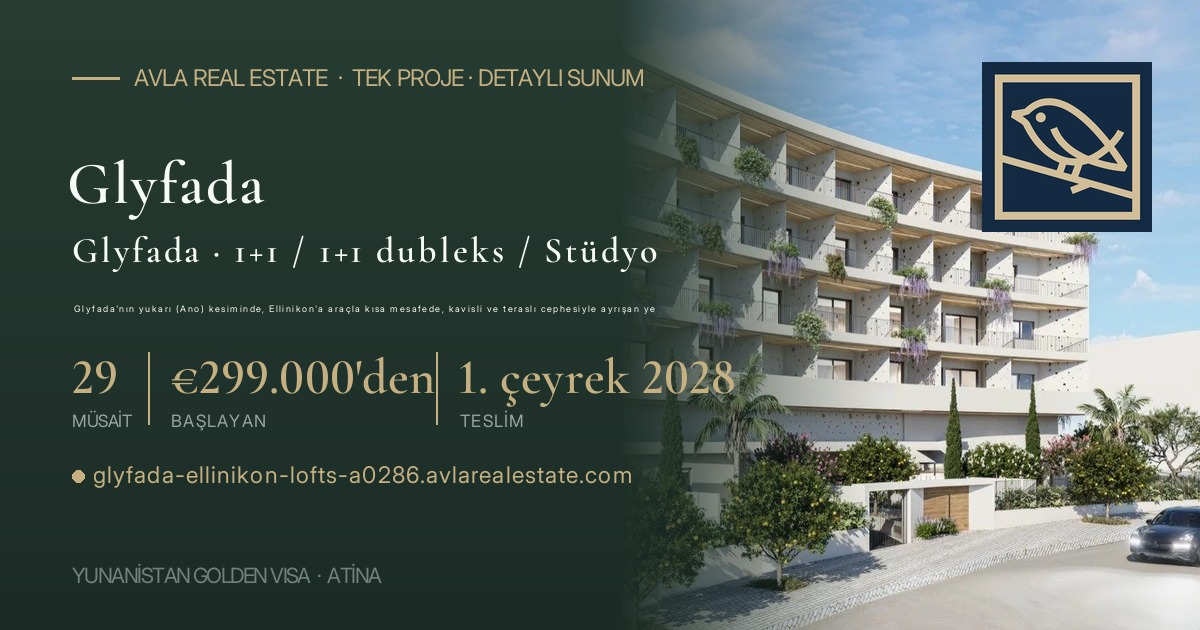
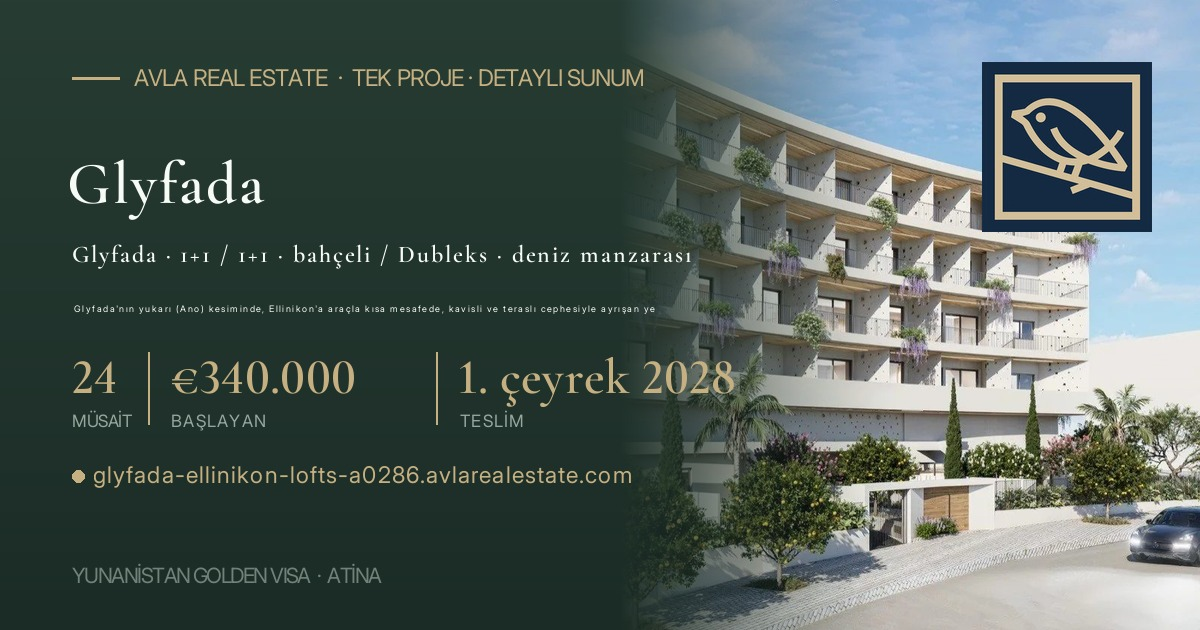
Tekil sayfalar yayında: A0286 — alan adı + master seçki bağlantısı (Sami 10.10)

Changed region(s): [[0.0617, 0.3619, 0.5858, 0.4222], [0.1542, 0.573, 0.37, 0.6333], [0.0617, 0.573, 0.1233, 0.6333]]

diff --git a/mulk/a0286/index.html b/mulk/a0286/index.html
@@ -1079,8 +1079,8 @@ j=d.createElement(s),dl=l!='dataLayer'?'&l='+l:'';j.async=true;j.src=
     <h1>Glyfada · Ellinikon yakınında 1+1 ve çatı loft dubleksler</h1>
     <div class="sub">Glyfada'nın yukarı (Ano) kesiminde, Ellinikon'a araçla kısa mesafede, kavisli ve teraslı cephesiyle ayrışan yeni bir yapı.</div>
     <div class="hstats">
-      <div><div class="n">29</div><div class="l">Müsait daire</div></div>
-      <div><div class="n">€299.000'den</div><div class="l">Fiyat aralığı</div></div>
+      <div><div class="n">24</div><div class="l">Müsait daire</div></div>
+      <div><div class="n">€340.000 – €520.000</div><div class="l">Fiyat aralığı</div></div>
       <div><div class="n">1. çeyrek 2028</div><div class="l">Teslim</div></div>
       <div><div class="n">Yok</div><div class="l">Kira garantisi</div></div>
     </div>
@@ -1091,7 +1091,7 @@ j=d.createElement(s),dl=l!='dataLayer'?'&l='+l:'';j.async=true;j.src=
     <a href="#giris">Seçki Notu</a>
     <a href="#gv">Golden Visa</a>
     <a href="#harita">Harita</a>
-    
+    <a href="#karsilastirma">Karşılaştırma</a>
     <a href="#a0286"><i style="background:#8a6a4a"></i>Glyfada &middot; proje</a>
     <a href="#guvence">Güvence</a>
     <a href="#ozet">Özet</a>
@@ -1104,7 +1104,7 @@ j=d.createElement(s),dl=l!='dataLayer'?'&l='+l:'';j.async=true;j.src=
   <div class="eyebrow">Seçki Notu</div>
   <h2>Glyfada · Ellinikon yakınında 1+1 ve çatı loft dubleksler — tek sayfada</h2>
   <div class="card">
-    <p>Bu sayfa, Glyfada · Atina Rivierası bölgesindeki <b>Glyfada · Ellinikon yakınında 1+1 ve çatı loft dubleksler</b> için hazırlanmış Avla Özel Seçki'dir. Projeyle ilgili her şey tek sayfada: güncel fiyatlar ve <b>29 müsait dairenin</b> listesi, daire ve kat planları, bölge raporu ve proje raporu.</p>
+    <p>Bu sayfa, Glyfada · Atina Rivierası bölgesindeki <b>Glyfada · Ellinikon yakınında 1+1 ve çatı loft dubleksler</b> için hazırlanmış Avla Özel Seçki'dir. Projeyle ilgili her şey tek sayfada: güncel fiyatlar ve <b>24 müsait dairenin</b> listesi, daire ve kat planları, bölge raporu ve proje raporu.</p>
     <p><b>Sayfanın yapısı:</b> Önce Golden Visa çerçevesi ve haritada semt; ardından daire tiplerini yan yana koyan karşılaştırma ve proje bölümü — künye, görseller, fiyat tablosu ve raporlar. Her bölümde <b>kendi çekincelerimiz</b> de yazılı. İlan sayfası, bölge raporu ve yatırım fizibilitesi bağlantıları proje kartının altındadır.</p>
     <div class="uyari"><b>Müsaitlik ve fiyat:</b> Rakamlar geliştiricilerden gelen en güncel listelere dayanır (envanter teyidi 29 Eylül 2026). Müsaitlik hızla değişir; bağlayıcı karardan önce ilgili dairenin durumu yazılı teyit edilir.</div>
     <p style="margin-top:18px"><a class="b1" style="padding:11px 24px;font-size:13px" href="https://wa.me/905322822657?text=Merhaba%2C%20Glyfada%20%C2%B7%20Ellinikon%20yak%C4%B1n%C4%B1nda%201%2B1%20ve%20%C3%A7at%C4%B1%20loft%20dubleksler%20se%C3%A7kisini%20inceledim." target="_blank" rel="noopener">Bize WhatsApp'tan yazın</a> <a class="b2" style="padding:11px 24px;font-size:13px;color:var(--navy);border-color:var(--cizgi)" href="tel:+905322822657">+90 532 282 26 57</a></p>
@@ -1145,31 +1145,44 @@ j=d.createElement(s),dl=l!='dataLayer'?'&l='+l:'';j.async=true;j.src=
   </div>
 </section>
 
-
+<section id="karsilastirma">
+  <div class="eyebrow">Karşılaştırma</div>
+  <h2>Daire tipleri — tek tabloda</h2>
+  <div class="tbl"><table><thead><tr><th>Daire</th><th>Tip</th><th>İç m²</th><th>Balkon / dış m²</th><th>Toplam m²</th><th>Fiyat</th><th>€ / iç m²</th><th>€ / toplam m²</th><th>Teslim</th></tr></thead><tbody>
+<tr><td><b><a href="#a0286" style="color:inherit">B.5</a></b></td><td>1+1</td><td>35,17</td><td>6,05</td><td>41,22</td><td class="f">€340.000</td><td>€9.667</td><td>€8.248</td><td>1. çeyrek 2028</td></tr>
+<tr><td><b><a href="#a0286" style="color:inherit">A.2</a></b></td><td>1+1</td><td>39,55</td><td>8,65</td><td>48,20</td><td class="f">€375.000</td><td>€9.482</td><td>€7.780</td><td>1. çeyrek 2028</td></tr>
+<tr><td><b><a href="#a0286" style="color:inherit">A.4</a></b></td><td>Stüdyo</td><td>35,17</td><td>5,35</td><td>40,52</td><td class="f">€360.000</td><td>€10.236</td><td>€8.885</td><td>1. çeyrek 2028</td></tr>
+<tr><td><b><a href="#a0286" style="color:inherit">I.2</a></b></td><td>1+1 · bahçeli</td><td>37,00</td><td>34,39</td><td>71,39</td><td class="f">€370.000</td><td>€10.000</td><td>€5.183</td><td>1. çeyrek 2028</td></tr>
+<tr><td><b><a href="#a0286" style="color:inherit">I.3</a></b></td><td>1+1 · bahçeli</td><td>37,75</td><td>54,37</td><td>92,12</td><td class="f">€380.000</td><td>€10.066</td><td>€4.125</td><td>1. çeyrek 2028</td></tr>
+<tr><td><b><a href="#a0286" style="color:inherit">CS.1</a></b></td><td>Dubleks · deniz manzarası</td><td>41,72</td><td>17,32</td><td>59,04</td><td class="f">€410.000</td><td>€9.827</td><td>€6.944</td><td>1. çeyrek 2028</td></tr>
+<tr><td><b><a href="#a0286" style="color:inherit">CS.9</a></b></td><td>Dubleks · deniz manzarası</td><td>52,82</td><td>9,55</td><td>62,37</td><td class="f">€520.000</td><td>€9.845</td><td>€8.337</td><td>1. çeyrek 2028</td></tr>
+  </tbody></table></div>
+  <div class="tblnot">Her daire tipinden en uygun fiyatlı ve en geniş müsait daire. Birim fiyatlar liste fiyatı üzerinden; bağlayıcı fiyat yazılı teyitle sabitlenir. Tablonun tamamı proje bölümündeki “Fiyatlar ve müsait daireler” başlığı altındadır.</div>
+</section>
 
 <section id="a0286">
   <div class="eyebrow">Proje 1 · Glyfada · Atina Rivierası</div>
   <h2><span class="pno" style="color:#8a6a4a">1</span>Glyfada · Ellinikon yakınında 1+1 ve çatı loft dubleksler</h2>
   <div class="card">
-    <p>Glyfada'nın yukarı (Ano) kesiminde, Ellinikon'a araçla kısa mesafede, kavisli ve teraslı cephesiyle ayrışan yeni bir yapı. 31 dairenin 29'u müsait: kompakt 1+1'ler, zemin kat daireleri ve çatıda iki seviyeli loft dubleksler; giriş fiyatı <b>€299.000</b>'den.</p>
-    <p>Açık olalım: geliştirici daire bazında fiyat yayınlamıyor; güncel liste yazılı teklifle verilir. Her daireye otopark yeri ve depo geliştirici tarafından belirtiliyor; teslim tarihi (1. çeyrek 2028) henüz yazılı teyit edilmedi.</p>
+    <p>Glyfada'nın yukarı (Ano) kesiminde, Ellinikon'a araçla kısa mesafede, kavisli ve teraslı cephesiyle ayrışan yeni bir yapı. 31 dairenin 24'ü müsait: bahçeli zemin kat daireleri, kompakt 1+1'ler ve çatıda iki seviyeli, deniz manzaralı dubleksler; fiyatlar <b>€340.000 – €520.000</b>.</p>
+    <p><b>Durum:</b> Fiyat ve müsaitlik geliştiricinin 23 Eylül 2026 tarihli listesinden. Ek otopark yeri €30.000, depo €10.000. Teslim tarihi (1. çeyrek 2028) henüz yazılı teyit edilmedi.</p>
     <p class="kucuk" style="margin-top:14px;padding-top:12px;border-top:1px solid var(--cizgi)"><a style="color:var(--navy);font-weight:600;text-decoration:underline;text-underline-offset:3px;text-decoration-color:var(--gold)" target="_blank" rel="noopener" href="https://www.avlarealestate.com/properties/ano-glyfada-new-build-one-bedroom-apartments-loft-maisonettes-near-ellinikon">İlan sayfası</a> &nbsp;·&nbsp; <a style="color:var(--navy);font-weight:600;text-decoration:underline;text-underline-offset:3px;text-decoration-color:var(--gold)" target="_blank" rel="noopener" href="https://www.avlarealestate.com/en/post/athens-riviera-golden-visa-region-report">Bölge raporu</a></p>
   </div>
   <div class="tkos"><div class="tb">Künye</div>
     <dl>
-      <dt>Müsaitlik</dt><dd><b>29 daire</b> müsait (31 daire) · 2 satıldı</dd>
-      <dt>Alan</dt><dd>33 – 62 m² (üst katlar) · 71 – 127 m² (zemin kat)</dd>
-      <dt>Fiyat</dt><dd><b>€299.000'den</b></dd>
+      <dt>Müsaitlik</dt><dd><b>24 daire</b> müsait (31 daire) · 1 rezerve · 6 satıldı</dd>
+      <dt>Alan</dt><dd>35 – 53 m² net · zemin kat bahçeli (34 – 90 m² bahçe) · çatı dubleksleri 41 – 53 m², deniz manzaralı</dd>
+      <dt>Fiyat</dt><dd><b>€340.000 – €520.000</b> · ek otopark €30.000, depo €10.000</dd>
       <dt>Kira garantisi</dt><dd><span class='yok'>Yok</span></dd>
       <dt>Teslim</dt><dd>1. çeyrek 2028 <span class='uyr'>— geliştirici teyidi bekleniyor</span></dd>
-      <dt>Donanım</dt><dd>Asansör · her daireye otopark ve depo · peyzajlı zemin seviyesi</dd>
+      <dt>Donanım</dt><dd>Asansör · peyzajlı zemin seviyesi · otopark ve depo bazı dairelerde atanmış, diğerlerinde ek bedelle</dd>
       <dt>Hizmet bedeli</dt><dd><span class='var'>%0</span></dd>
       <dt>Golden Visa</dt><dd>Uygunluk ve geçerli eşik <b>daire bazında</b>, bağımsız Yunan avukat incelemesiyle <b>yazılı</b> teyit edilir</dd>
       <dt>Semt</dt><dd>Ano Glyfada — merkezin üstünde, sakin ve yeşil konut dokusu</dd>
       <dt>Ellinikon</dt><dd>Park, marina ve iş bölgesine araçla kısa mesafe</dd>
       <dt>Cephe</dt><dd>Kavisli, teraslı cephe · bitkilendirilmiş balkonlar</dd>
       <dt>Bina</dt><dd>Zemin + 3 kat + çatı loft katı · 31 daire</dd>
-      <dt>Daire karması</dt><dd>4 zemin kat · 15 kompakt 1+1 / stüdyo · 12 çatı dubleksi</dd>
+      <dt>Daire karması</dt><dd>4 bahçeli zemin kat · 15 kompakt 1+1 / stüdyo · 12 deniz manzaralı çatı dubleksi</dd>
       <dt>Havalimanı</dt><dd>Araçla ~25 dakika</dd>
     </dl>
   </div>
@@ -1184,47 +1197,44 @@ j=d.createElement(s),dl=l!='dataLayer'?'&l='+l:'';j.async=true;j.src=
     <img src="img/g-A0286-8.webp" alt="Yatak odası" loading="lazy" onclick="ac('img/g-A0286-8.webp','Yatak odası')">
   </div>
   <div class="tblnot">Görsellerin tamamı bilgisayar ortamında üretilmiş temsilî görsellerdir.</div>
-  <details class="rapor"><summary>Fiyatlar ve müsait daireler — 31 dairenin 29'u</summary><div class="rbody">
-    <div class="pmap" id="pmap-a0286" data-lat="37.870" data-lng="23.752" data-r="250" data-renk="#8a6a4a"></div>
+  <details class="rapor"><summary>Fiyatlar ve müsait daireler — 31 dairenin 24'ü</summary><div class="rbody">
+    <div class="pmap" id="pmap-a0286" data-lat="37.883" data-lng="23.755" data-r="250" data-renk="#8a6a4a"></div>
     <div class="tblnot pmap-not">Konum <b>semt düzeyinde</b> gösterilmektedir — Ano Glyfada · Atina Rivierası.</div>
     <div class="tbl"><table>
       <thead><tr><th>Daire</th><th>Kat</th><th>Tip</th><th>Net m²</th><th>Balkon m²</th><th>Brüt m²</th><th>Fiyat</th><th>€ / m² net</th><th>€ / m² brüt</th><th>Plan</th></tr></thead>
       <tbody>
       
-      <tr><td>B.4</td><td>2</td><td>Stüdyo</td><td>33</td><td>—</td><td>—</td><td class="f"><span class="bel">Teklifle</span></td><td>—</td><td>—</td><td>—</td></tr>
-      <tr><td>A.5</td><td>1</td><td>1+1</td><td>36</td><td>—</td><td>—</td><td class="f"><span class="bel">Teklifle</span></td><td>—</td><td>—</td><td>—</td></tr>
-      <tr><td>B.6</td><td>2</td><td>1+1</td><td>36</td><td>—</td><td>—</td><td class="f"><span class="bel">Teklifle</span></td><td>—</td><td>—</td><td>—</td></tr>
-      <tr><td>A.3</td><td>1</td><td>1+1</td><td>40</td><td>—</td><td>—</td><td class="f"><span class="bel">Teklifle</span></td><td>—</td><td>—</td><td>—</td></tr>
-      <tr><td>A.4</td><td>1</td><td>Stüdyo</td><td>41</td><td>—</td><td>—</td><td class="f"><span class="bel">Teklifle</span></td><td>—</td><td>—</td><td>—</td></tr>
-      <tr><td>B.3</td><td>2</td><td>1+1</td><td>41</td><td>—</td><td>—</td><td class="f"><span class="bel">Teklifle</span></td><td>—</td><td>—</td><td>—</td></tr>
-      <tr class="fgiz"><td>B.5</td><td>2</td><td>1+1</td><td>41</td><td>—</td><td>—</td><td class="f"><span class="bel">Teklifle</span></td><td>—</td><td>—</td><td>—</td></tr>
-      <tr class="fgiz"><td>A.1</td><td>1</td><td>1+1</td><td>42</td><td>—</td><td>—</td><td class="f"><span class="bel">Teklifle</span></td><td>—</td><td>—</td><td>—</td></tr>
-      <tr class="fgiz"><td>A.7</td><td>1</td><td>1+1</td><td>44</td><td>—</td><td>—</td><td class="f"><span class="bel">Teklifle</span></td><td>—</td><td>—</td><td>—</td></tr>
-      <tr class="fgiz"><td>B.1</td><td>2</td><td>1+1</td><td>44</td><td>—</td><td>—</td><td class="f"><span class="bel">Teklifle</span></td><td>—</td><td>—</td><td>—</td></tr>
-      <tr class="fgiz"><td>B.8</td><td>2</td><td>1+1</td><td>46</td><td>—</td><td>—</td><td class="f"><span class="bel">Teklifle</span></td><td>—</td><td>—</td><td>—</td></tr>
-      <tr class="fgiz"><td>A.2</td><td>1</td><td>1+1</td><td>48</td><td>—</td><td>—</td><td class="f"><span class="bel">Teklifle</span></td><td>—</td><td>—</td><td>—</td></tr>
-      <tr class="fgiz"><td>B.7</td><td>2</td><td>1+1</td><td>50</td><td>—</td><td>—</td><td class="f"><span class="bel">Teklifle</span></td><td>—</td><td>—</td><td>—</td></tr>
-      <tr class="fgiz"><td>CS.10</td><td>3 + çatı (dubleks)</td><td>1+1 dubleks</td><td>52</td><td>—</td><td>—</td><td class="f"><span class="bel">Teklifle</span></td><td>—</td><td>—</td><td>—</td></tr>
-      <tr class="fgiz"><td>CS.5</td><td>3 + çatı (dubleks)</td><td>1+1 dubleks</td><td>53</td><td>—</td><td>—</td><td class="f"><span class="bel">Teklifle</span></td><td>—</td><td>—</td><td>—</td></tr>
-      <tr class="fgiz"><td>CS.7</td><td>3 + çatı (dubleks)</td><td>1+1 dubleks</td><td>53</td><td>—</td><td>—</td><td class="f"><span class="bel">Teklifle</span></td><td>—</td><td>—</td><td>—</td></tr>
-      <tr class="fgiz"><td>CS.4</td><td>3 + çatı (dubleks)</td><td>1+1 dubleks</td><td>54</td><td>—</td><td>—</td><td class="f"><span class="bel">Teklifle</span></td><td>—</td><td>—</td><td>—</td></tr>
-      <tr class="fgiz"><td>CS.11</td><td>3 + çatı (dubleks)</td><td>1+1 dubleks</td><td>58</td><td>—</td><td>—</td><td class="f"><span class="bel">Teklifle</span></td><td>—</td><td>—</td><td>—</td></tr>
-      <tr class="fgiz"><td>CS.12</td><td>3 + çatı (dubleks)</td><td>1+1 dubleks</td><td>58</td><td>—</td><td>—</td><td class="f"><span class="bel">Teklifle</span></td><td>—</td><td>—</td><td>—</td></tr>
-      <tr class="fgiz"><td>CS.8</td><td>3 + çatı (dubleks)</td><td>1+1 dubleks</td><td>58</td><td>—</td><td>—</td><td class="f"><span class="bel">Teklifle</span></td><td>—</td><td>—</td><td>—</td></tr>
-      <tr class="fgiz"><td>CS.1</td><td>3 + çatı (dubleks)</td><td>1+1 dubleks</td><td>59</td><td>—</td><td>—</td><td class="f"><span class="bel">Teklifle</span></td><td>—</td><td>—</td><td>—</td></tr>
-      <tr class="fgiz"><td>CS.2</td><td>3 + çatı (dubleks)</td><td>1+1 dubleks</td><td>59</td><td>—</td><td>—</td><td class="f"><span class="bel">Teklifle</span></td><td>—</td><td>—</td><td>—</td></tr>
-      <tr class="fgiz"><td>CS.3</td><td>3 + çatı (dubleks)</td><td>1+1 dubleks</td><td>60</td><td>—</td><td>—</td><td class="f"><span class="bel">Teklifle</span></td><td>—</td><td>—</td><td>—</td></tr>
-      <tr class="fgiz"><td>CS.6</td><td>3 + çatı (dubleks)</td><td>1+1 dubleks</td><td>60</td><td>—</td><td>—</td><td class="f"><span class="bel">Teklifle</span></td><td>—</td><td>—</td><td>—</td></tr>
-      <tr class="fgiz"><td>CS.9</td><td>3 + çatı (dubleks)</td><td>1+1 dubleks</td><td>62</td><td>—</td><td>—</td><td class="f"><span class="bel">Teklifle</span></td><td>—</td><td>—</td><td>—</td></tr>
-      <tr class="fgiz"><td>I.2</td><td>Zemin</td><td>1+1</td><td>71</td><td>—</td><td>—</td><td class="f"><span class="bel">Teklifle</span></td><td>—</td><td>—</td><td>—</td></tr>
-      <tr class="fgiz"><td>I.3</td><td>Zemin</td><td>1+1</td><td>92</td><td>—</td><td>—</td><td class="f"><span class="bel">Teklifle</span></td><td>—</td><td>—</td><td>—</td></tr>
-      <tr class="fgiz"><td>I.1</td><td>Zemin</td><td>1+1</td><td>99</td><td>—</td><td>—</td><td class="f"><span class="bel">Teklifle</span></td><td>—</td><td>—</td><td>—</td></tr>
-      <tr class="fgiz"><td>I.4</td><td>Zemin</td><td>1+1</td><td>127</td><td>—</td><td>—</td><td class="f"><span class="bel">Teklifle</span></td><td>—</td><td>—</td><td>—</td></tr>
+      
+      <tr><td>B.5</td><td>2</td><td>1+1</td><td>35,17</td><td>6,05</td><td>41,22</td><td class="f">€340.000</td><td>€9.667</td><td>€8.248</td><td>—</td></tr>
+      <tr><td>A.1</td><td>1</td><td>1+1</td><td>36,03</td><td>5,57</td><td>41,60</td><td class="f">€350.000</td><td>€9.714</td><td>€8.413</td><td>—</td></tr>
+      <tr><td>A.3</td><td>1</td><td>1+1</td><td>35,18</td><td>5,15</td><td>40,33</td><td class="f">€360.000</td><td>€10.233</td><td>€8.926</td><td>—</td></tr>
+      <tr><td>A.4</td><td>1</td><td>Stüdyo</td><td>35,17</td><td>5,35</td><td>40,52</td><td class="f">€360.000</td><td>€10.236</td><td>€8.885</td><td>—</td></tr>
+      <tr><td>A.7</td><td>1</td><td>1+1</td><td>38,64</td><td>5,38</td><td>44,02</td><td class="f">€370.000</td><td>€9.576</td><td>€8.405</td><td>—</td></tr>
+      <tr><td>B.8</td><td>2</td><td>1+1</td><td>38,64</td><td>7,37</td><td>46,01</td><td class="f">€370.000</td><td>€9.576</td><td>€8.042</td><td>—</td></tr>
+      <tr class="fgiz"><td>I.2</td><td>Zemin</td><td>1+1 · bahçeli</td><td>37,00</td><td>34,39</td><td>71,39</td><td class="f">€370.000</td><td>€10.000</td><td>€5.183</td><td>—</td></tr>
+      <tr class="fgiz"><td>A.2</td><td>1</td><td>1+1</td><td>39,55</td><td>8,65</td><td>48,20</td><td class="f">€375.000</td><td>€9.482</td><td>€7.780</td><td>—</td></tr>
+      <tr class="fgiz"><td>B.1</td><td>2</td><td>1+1</td><td>36,03</td><td>8,45</td><td>44,48</td><td class="f">€375.000</td><td>€10.408</td><td>€8.431</td><td>—</td></tr>
+      <tr class="fgiz"><td>I.3</td><td>Zemin</td><td>1+1 · bahçeli</td><td>37,75</td><td>54,37</td><td>92,12</td><td class="f">€380.000</td><td>€10.066</td><td>€4.125</td><td>—</td></tr>
+      <tr class="fgiz"><td>I.4</td><td>Zemin</td><td>1+1 · bahçeli</td><td>37,22</td><td>90,07</td><td>127,29</td><td class="f">€380.000</td><td>€10.210</td><td>€2.985</td><td>—</td></tr>
+      <tr class="fgiz"><td>I.1</td><td>Zemin</td><td>1+1 · bahçeli</td><td>35,90</td><td>63,11</td><td>99,01</td><td class="f">€380.000</td><td>€10.585</td><td>€3.838</td><td>—</td></tr>
+      <tr class="fgiz"><td>CS.1</td><td>3 + çatı</td><td>Dubleks · deniz manzarası</td><td>41,72</td><td>17,32</td><td>59,04</td><td class="f">€410.000</td><td>€9.827</td><td>€6.944</td><td>—</td></tr>
+      <tr class="fgiz"><td>CS.12</td><td>3 + çatı</td><td>Dubleks · deniz manzarası</td><td>40,80</td><td>17,44</td><td>58,24</td><td class="f">€410.000</td><td>€10.049</td><td>€7.040</td><td>—</td></tr>
+      <tr class="fgiz"><td>CS.10</td><td>3 + çatı</td><td>Dubleks · deniz manzarası</td><td>42,92</td><td>8,72</td><td>51,64</td><td class="f">€420.000</td><td>€9.786</td><td>€8.133</td><td>—</td></tr>
+      <tr class="fgiz"><td>CS.7</td><td>3 + çatı</td><td>Dubleks · deniz manzarası</td><td>43,44</td><td>7,39</td><td>50,83</td><td class="f">€425.000</td><td>€9.784</td><td>€8.361</td><td>—</td></tr>
+      <tr class="fgiz"><td>CS.4</td><td>3 + çatı</td><td>Dubleks · deniz manzarası</td><td>45,41</td><td>8,78</td><td>54,19</td><td class="f">€435.000</td><td>€9.579</td><td>€8.027</td><td>—</td></tr>
+      <tr class="fgiz"><td>CS.5</td><td>3 + çatı</td><td>Dubleks · deniz manzarası</td><td>45,93</td><td>7,11</td><td>53,04</td><td class="f">€450.000</td><td>€9.798</td><td>€8.484</td><td>—</td></tr>
+      <tr class="fgiz"><td>CS.11</td><td>3 + çatı</td><td>Dubleks · deniz manzarası</td><td>46,94</td><td>10,56</td><td>57,50</td><td class="f">€480.000</td><td>€10.226</td><td>€8.348</td><td>—</td></tr>
+      <tr class="fgiz"><td>CS.8</td><td>3 + çatı</td><td>Dubleks · deniz manzarası</td><td>50,38</td><td>8,94</td><td>59,32</td><td class="f">€500.000</td><td>€9.925</td><td>€8.429</td><td>—</td></tr>
+      <tr class="fgiz"><td>CS.2</td><td>3 + çatı</td><td>Dubleks · deniz manzarası</td><td>49,30</td><td>9,36</td><td>58,66</td><td class="f">€500.000</td><td>€10.142</td><td>€8.524</td><td>—</td></tr>
+      <tr class="fgiz"><td>CS.3</td><td>3 + çatı</td><td>Dubleks · deniz manzarası</td><td>49,58</td><td>10,11</td><td>59,69</td><td class="f">€505.000</td><td>€10.186</td><td>€8.460</td><td>—</td></tr>
+      <tr class="fgiz"><td>CS.6</td><td>3 + çatı</td><td>Dubleks · deniz manzarası</td><td>50,88</td><td>9,27</td><td>60,15</td><td class="f">€510.000</td><td>€10.024</td><td>€8.479</td><td>—</td></tr>
+      <tr class="fgiz"><td>CS.9</td><td>3 + çatı</td><td>Dubleks · deniz manzarası</td><td>52,82</td><td>9,55</td><td>62,37</td><td class="f">€520.000</td><td>€9.845</td><td>€8.337</td><td>—</td></tr>
+
 
       </tbody>
     </table></div>
-    <button class="fdaha" onclick="fDaha(this)" data-cok="Kalan 23 daireyi göster  +" data-az="Daha az göster  −">Kalan 23 daireyi göster  +</button>
-    <div class="tblnot">Geliştirici bu projede daire bazında fiyat, balkon ve dış alan verisi yayınlamıyor; Fiyat, Balkon, Brüt ve € / m² sütunları yazılı teklifle doldurulur. Giriş fiyatı <b>€299.000</b>'den. Alanlar geliştiricinin yayımladığı daire alanıdır; net / brüt ayrımı yazılı teyide bağlıdır. Daire planları geliştiriciden istendi, gelince bu tabloya eklenecek. Kat sütunu: Zemin, 1. kat, 2. kat ve 3. kat + çatı katı (dubleksler). Kayıt tarihi <b>10 Ekim 2026</b>.</div>
+    <button class="fdaha" onclick="fDaha(this)" data-cok="Kalan 18 daireyi göster  +" data-az="Daha az göster  −">Kalan 18 daireyi göster  +</button>
+    <div class="tblnot">Kaynak: geliştiricinin fiyat listesi, <b>23 Eylül 2026</b>. Zemin kat dairelerinde Balkon m² sütunu <b>özel bahçe</b> alanıdır; dublekslerde iç alan ve balkon iki katın toplamıdır. Brüt alan = net iç alan + balkon/bahçe. Ek otopark yeri <b>€30.000</b>, depo <b>€10.000</b>; bazı dairelere otopark ve depo listede atanmış, atama teklif aşamasında yazılı teyit edilir. Ayrıca B.7 (2. kat, €395.000) <b>Rezerve (soft rezerve)</b>; 6 daire satıldı. Alanlarda ±%3 tolerans vardır. Daire planları geliştiriciden istendi; Plan sütunu planlar geldiğinde dolar.</div>
     <button class="dkapat" onclick="dKapat(this)" aria-label="Bölümü kapat"><i>−</i> Kapat</button>
   </div></details>
   <details class="rapor"><summary>Bölge raporu · Glyfada</summary><div class="rbody">
@@ -1249,11 +1259,11 @@ j=d.createElement(s),dl=l!='dataLayer'?'&l='+l:'';j.async=true;j.src=
     <p>Zemin + 3 kat + çatı loft katından oluşan, 31 daireli yeni yapı. Ayırt edici özelliği <b>kavisli, teraslı cephesi</b>: öne çıkan balkonlar bitkilendirilmiş, zemin seviyesi peyzajlı, otopark katına ayrı bir giriş yolu ayrılmış. Binada asansör var; her daireye otopark yeri ve depo tahsis edildiği belirtiliyor. Yapı ruhsatı 2026'da alınmıştır. Görsellerdeki bitkilendirme ve malzeme dili proje çizimine göredir.</p>
     <div class="tkos" style="margin-top:14px"><div class="tb">Proje künyesi</div>
     <dl>
-      <dt>Toplam / müsait</dt><dd>31 daire · <b>29 müsait</b> · 2 satıldı (geliştirici listesi, 10 Ekim 2026)</dd>
-      <dt>Zemin kat</dt><dd>4 daire · 71 – 127 m²</dd>
-      <dt>1. ve 2. kat</dt><dd>15 daire · 33 – 50 m² (13 müsait)</dd>
-      <dt>Çatı dubleksleri</dt><dd>12 daire · 52 – 62 m² · iki seviyeli</dd>
-      <dt>Giriş fiyatı</dt><dd>€299.000'den <span class='kucuk'>(daire fiyatları yazılı teklifle)</span></dd>
+      <dt>Toplam / müsait</dt><dd>31 daire · 24 müsait · 1 rezerve · 6 satıldı (geliştirici listesi, 23 Eylül 2026)<b>29 müsait</b> · 2 satıldı (geliştirici listesi, 10 Ekim 2026)</dd>
+      <dt>Zemin kat</dt><dd>4 daire · 35,90 – 37,75 m² iç alan + 34 – 90 m² özel bahçe</dd>
+      <dt>1. ve 2. kat</dt><dd>15 daire · 27 – 40 m² (8 müsait)</dd>
+      <dt>Çatı dubleksleri</dt><dd>12 daire · 41 – 53 m² iç alan · iki seviyeli, deniz manzaralı</dd>
+      <dt>Fiyat</dt><dd>€340.000 – €520.000 <span class='kucuk'>(ek otopark €30.000, depo €10.000)</span></dd>
       <dt>Açıklanan teslim</dt><dd>1. çeyrek 2028 <span class='uyr'>— yazılı teyit alınacak</span></dd>
     </dl>
   </div>
@@ -1265,10 +1275,10 @@ j=d.createElement(s),dl=l!='dataLayer'?'&l='+l:'';j.async=true;j.src=
     </ul>
     <h4>Avla'nın değerlendirmesi</h4>
     <p><b>Güçlü yanlar:</b> Glyfada'nın sakin üst kesiminde, Ellinikon etki alanına araçla kısa mesafede yeni ve kompakt bir 1+1 arzı. Riviera'da bu tip dairelere kira talebi var ve Ellinikon'un yarattığı istihdam bu talebi destekliyor (göstergesel). Kavisli, teraslı cephe binayı çevresindeki yapılardan ayırıyor; çatı dubleksleri iki seviyeli kurgusuyla standart 1+1'lerden farklı bir seçenek sunuyor.</p>
-    <p><b>Dikkat edilecekler:</b> Giriş fiyatı (€299.000'den), Glyfada'daki genel ilan düzeyinin üstünde. Yeni yapı olması, kompakt tip ve Ellinikon yakınlığı bu farkı kısmen açıklıyor; ancak daire bazlı liste ve alan dağılımı (balkon / dış alan) gelmeden € / m² kıyası yapamıyoruz. Teslim tarihi ve inşaat ilerlemesi de şimdilik yalnız geliştirici beyanına dayanıyor.</p>
+    <p><b>Dikkat edilecekler:</b> Fiyat düzeyi (€340.000'den; net m² başına €8.000'in üstünde), Glyfada'daki genel ilan düzeyinin üstünde. Yeni yapı olması, kompakt tip ve Ellinikon yakınlığı bu farkı kısmen açıklıyor; ancak daire bazlı liste ve alan dağılımı (balkon / dış alan) gelmeden € / m² kıyası yapamıyoruz. Teslim tarihi ve inşaat ilerlemesi de şimdilik yalnız geliştirici beyanına dayanıyor.</p>
     <h4>Emin olmadığımız noktalar</h4>
     <ul>
-      <li><b>Fiyat:</b> giriş fiyatı farklı kaynaklarda €299.000 ile €340.000 arasında geçiyor; daire bazlı güncel liste yazılı teklifle alınacak.</li>
+      <li><b>Fiyat:</b> liste 23 Eylül 2026 tarihli; bağlayıcı fiyat ve müsaitlik teklif aşamasında yazılı teyit edilir. Otopark ve depo atamaları da yazılı alınacak.</li>
       <li><b>Teslim:</b> 1. çeyrek 2028 tarihi tek bir kaynakta geçiyor; geliştiriciden yazılı teslim takvimi ve inşaat ilerlemesi istiyoruz.</li>
       <li><b>Alanlar:</b> alanlar geliştiricinin yayımladığı daire alanlarıdır; net / brüt ve balkon / dış alan ayrımı ile daire planları gelince netleşecek. Planlar geliştiriciden istendi.</li>
       <li><b>Tip ve numaralandırma:</b> "stüdyo" yazan iki dairenin (A.4, B.4) yatak odası bilgisi çelişiyor; listede iki daire B.4 olarak geçiyor, ikincisini B.5 diye okuduk. Yazılı listeyle teyit edilecek.</li>
@@ -1286,7 +1296,7 @@ j=d.createElement(s),dl=l!='dataLayer'?'&l='+l:'';j.async=true;j.src=
   <div class="tbl"><table>
     <thead><tr><th>#</th><th>Proje</th><th>Semt</th><th>Teslim</th><th>Müsait</th><th>Fiyat aralığı</th><th>Net m² aralığı</th><th>Brüt m² aralığı</th><th>€ / m² net (en düşük)</th><th>€ / m² brüt (en düşük)</th></tr></thead>
     <tbody>
-      <tr><td>1</td><td><b><a href="#a0286" style="color:inherit">Glyfada · Ellinikon yakınında 1+1 ve çatı loft dubleksler</a></b></td><td>Glyfada</td><td>1. çeyrek 2028</td><td>29 daire müsait</td><td class="f"><b>€299.000'den</b></td><td>33,00 – 127,00 m²</td><td>33,00 – 127,00 m²</td><td>—</td><td>—</td></tr>
+      <tr><td>1</td><td><b><a href="#a0286" style="color:inherit">Glyfada · Ellinikon yakınında 1+1 ve çatı loft dubleksler</a></b></td><td>Glyfada</td><td>1. çeyrek 2028</td><td>24 daire müsait</td><td class="f"><b>€340.000 – €520.000</b></td><td>35,17 – 52,82 m²</td><td>40,33 – 127,29 m²</td><td>€9.482</td><td>€2.985</td></tr>
     </tbody>
   </table></div>
   <div class="card" style="margin-top:22px">
@@ -1535,7 +1545,7 @@ function fDaha(b){var k=b.previousElementSibling;
       <div class="sm-mulk"><b>Bu sayfanın kapsadığı mülk</b><span class="sm-ufak">Aşağıdaki referans kodları Avla’nın iç dosya numaralarıdır; sözleşmenin her mülkü şüpheye yer bırakmadan tanımlaması için burada gösterilmektedir.</span></div>
       <div class="tbl"><table>
         <thead><tr><th>Ref</th><th>Mülk</th><th>Semt</th><th>Tip</th><th>Alan</th><th>Fiyat</th><th>Hizmet bedeli</th></tr></thead>
-        <tbody><tr><td>A0286</td><td>Glyfada · Ellinikon yakınında 1+1 ve çatı loft dubleksler</td><td>Glyfada · Atina Rivierası</td><td>1+1 / 1+1 dubleks / Stüdyo</td><td>33,00 – 127,00 m² net</td><td>€299.000'den</td><td><span class='var'>%0</span></td></tr></tbody>
+        <tbody><tr><td>A0286</td><td>Glyfada · Ellinikon yakınında 1+1 ve çatı loft dubleksler</td><td>Glyfada · Atina Rivierası</td><td>1+1 / 1+1 · bahçeli / Dubleks · deniz manzarası / Stüdyo</td><td>35,17 – 52,82 m² net</td><td>€340.000 – €520.000</td><td><span class='var'>%0</span></td></tr></tbody>
       </table></div>
       <div class="sm-ufak">Bu sayfadaki mülkte hizmet bedeli <b>%0</b>'dır. Fiyatlar ilan fiyatlarıdır ve bağlayıcı teklif değildir; belirli bir evin fiyatı ve müsaitliği teklif aşamasında yazılı olarak teyit edilir.</div>
       <h5>Protokol maddeleri</h5>
@@ -1585,7 +1595,7 @@ function fDaha(b){var k=b.previousElementSibling;
 <script>
 
 var bolgeler=[
-      {ad:'Glyfada · Ellinikon yakınında 1+1 ve çatı loft dubleksler',semt:'Glyfada · Atina Rivierası',lat:37.87,lng:23.752,r:300,renk:'#8a6a4a'}
+      {ad:'Glyfada · Ellinikon yakınında 1+1 ve çatı loft dubleksler',semt:'Glyfada · Atina Rivierası',lat:37.883,lng:23.755,r:300,renk:'#8a6a4a'}
     ];
 
 /* ---- harita: GOOGLE MAPS (Sami 23.09.2026) — semt çemberi, pin YOK, tam ekran açık ---- */
@@ -1931,7 +1941,7 @@ function dKapat(b){var d=b.closest('details');if(!d)return;var once=d.getBoundin
         <ul>
           <li><a href="#giris">Seçki notu</a></li>
           <li><a href="#harita">Seçki haritası</a></li>
-          <li></li>
+          <li><a href="#karsilastirma">Karşılaştırma</a></li>
           <li><a href="#a0286">Mülkler</a></li>
           <li><a href="#ozet">Özet</a></li>
           <li><a href="#protokol">Dijital Yer Gösterme Protokolü</a></li>
